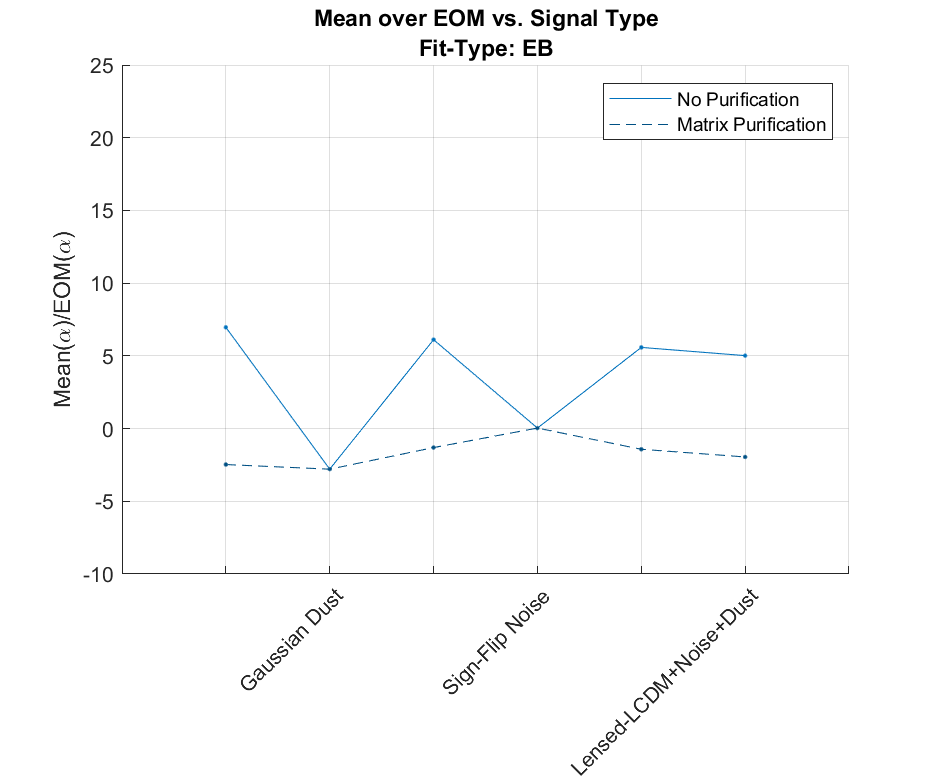
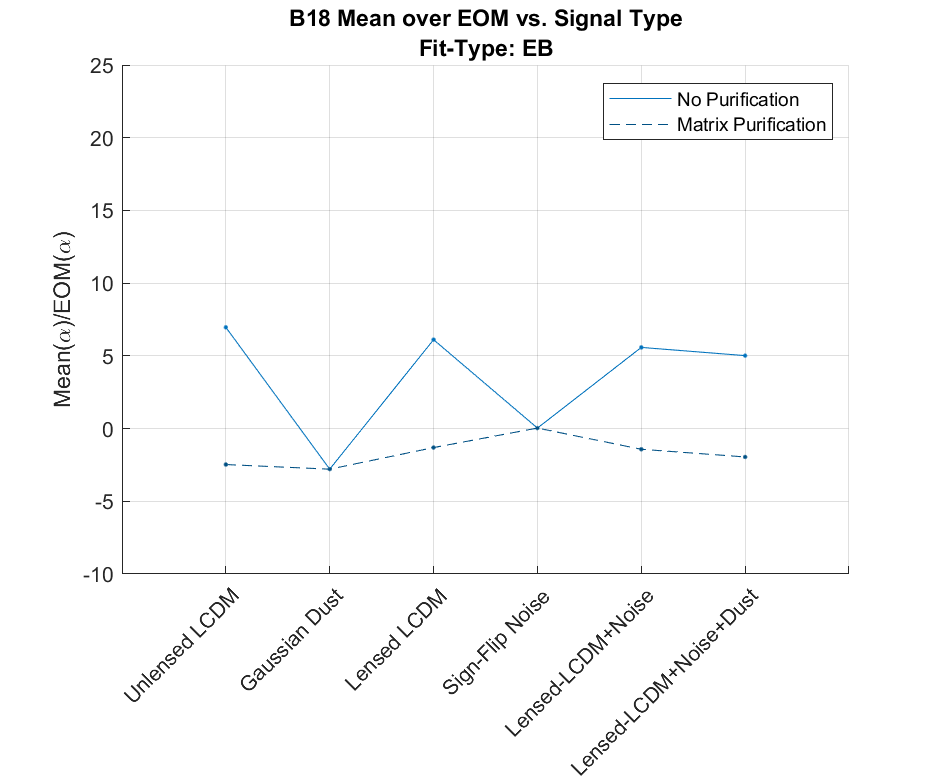
final update to B18 posting before review.

diff --git a/20230214_IPR_B18_mat_pure/index.html b/20230214_IPR_B18_mat_pure/index.html
@@ -100,11 +100,6 @@ I've now included B18 into these pagers. I see virtually no difference in the B1
     </figure>
 
 
-
-
-    <p>
-
-    </p>
     <figure>
         <img alt="Name pager" id="histpager" src="#" onerror=this.src="figs/blank_6x4.png" width="100%"/>
         <figcaption>
@@ -129,6 +124,71 @@ I've now included B18 into these pagers. I see virtually no difference in the B1
             });
         </script>
     </figure>
+
+    <p>
+        Switching between B18 and B2018 for any signal type which has noise, we can qualitatively see that integrating over three years versus one reduces the &sigma;<sub>&alpha;</sub> as expected. Quantitatively though, we can calculate the effective number of additional years we integrated over by taking the ratio of the variances on &alpha; as tabulated below:
+    </p>
+
+    <figure>
+        <table>
+            <tr>
+                <th>Signal Type</th>
+                <th colspan="3">N<sub>eff</sub></th>
+            </tr>
+            <tr>
+                <th></th>
+                <th>EB-only</th>
+                <th>TB-only</th>
+                <th>EB+TB</th>
+            </tr>
+
+            <tr>
+                <td class=''>Noise-only</td>
+                <td class=''>2.7368</td>
+                <td class=''>2.6164</td>
+                <td class=''>2.5918</td>
+            </tr>
+            <tr>
+                <td class=''>L-LCDM + Noise</td>
+                <td class=''>1.8133</td>
+                <td class=''>1.9130</td>
+                <td class=''>1.8636</td>
+            </tr>
+            <tr>
+                <td class=''>L-LCDM+N+Dust</td>
+                <td class=''>1.7821</td>
+                <td class=''>1.9179</td>
+                <td class=''>1.8556</td>
+            </tr>
+
+        </table>
+    </figure>
+
+    <p>The N<sub>eff</sub> for Noise-only is close to 3 as expected and the other signal types are closer to 2 because, while we're still noise-dominated in B18, the contributions from noise and lensing are becoming comparable.</p>
+
+    <p>We can also see that for B18, the means of the angles are still large compared to the error-on-the-mean, which disfavors the hypothesis in which the deviations were due to systematics resulting from using the B18 matrix on the B2018 subset. Instead, we can now try to test the other hypothesis where these deviations are due to the fact that we're using constrained T-maps.</p>
+    <figure>
+        <img alt="Name pager" id="eompager" src="#" onerror=this.src="figs/blank_6x4.png" width="100%"/>
+        <figcaption>
+            Plots of the Mean divided the error on the mean as a function of each signal for cases with and without matrix purification.
+        </figcaption>
+        <script type="text/javascript">
+            pager.link("#eompager",
+                {
+                    'Fit Type|fit' : ['EB Only|1','TB Only|2','EB+TB|3'],
+
+                },
+                function(params) {
+                    return 'figs/m_over_eom_vs_sig_'+params.fit+'.png';
+                });
+            pager.setparams({
+                'fit': '1',
+
+            });
+        </script>
+    </figure>
+
+
 
 </section>
 <section>
@@ -413,11 +473,27 @@ I've now included B18 into these pagers. I see virtually no difference in the B1
     </section>
 <section><h2>Conclusions</h2>
     <p>
+        In my previous posting, we saw deviations in the means of &alpha; that were large WRT their error-on-the-means. By fitting angles to B18, I was able to rule out systematics involving the purification matrix as the source which drives us to look into ways of testing the hypothesis that these deviations are a result from using constrained T-maps.
+    </p>
 
+    <p>
+        By fitting angles to EB/TB with CMB crossed Noise/Dust, the angles that I fit to these signal types are now comparable to the other signal types with CMB in them. I find that the Noise &sigma;<sub>&alpha;</sub> between B2018 and B18 drops by ~&radic;3 as expected. This is not true, however, for L-LCDM+Noise or L-LCDM+N+Dust because we're now in the regime where the contributions to &sigma;<sub>&alpha;</sub> from lensing and noise are comparable.
+    </p>
+
+    <p>
+        I also examined how each bandpower contributes to our angle estimates and find that most of our constraining power is in the higher-&ell;'s. Because the BB-power in our real data is less understood, I'm thinking of sticking to bandpowers between 2 and 10 (&ell;=37.5 to 317.5). According to the sims, most of our constraining power in this region is between &ell;-bins of 6 to 10, but we do see a non-trivial improvement of &sigma;<sub>&alpha;</sub> of ~0.01&deg; including bands 2 through 5, so I'm electing to keep using those.
+    </p>
+
+    <p>
+        Lastly, I was able to show that the linear combination of BB-power and the variance on &alpha; are equal to the BB-power and &sigma;<sub>&alpha;</sub><sup>2</sup> of coadded maps of the signal types. This relationship should prove useful both when looking at fits of other simulations further on in the analysis and when forcasting the performance of future analyses.
     </p>
 
 
     <h3>Next Steps</h3>
+<ul>
+    <li>Running pseudosims through the angle estimator explore how EB and TB are related</li>
+    <li>Fitting angles to sims with non-zero angles injected into them.</li>
+</ul>
 
 </section>
 
@@ -430,7 +506,7 @@ I've now included B18 into these pagers. I see virtually no difference in the B1
     <div class="footnote">
         <p>
         <sup><a name="ftn1" href="#sup1">[1]</a></sup>
-        A more recent global rotation posting for BK18 exists, but to remain blind in this analysis I have not looked at it and do not link it here.
+
     </p>
     </div>
 <!--    <h3>Code</h3>-->
